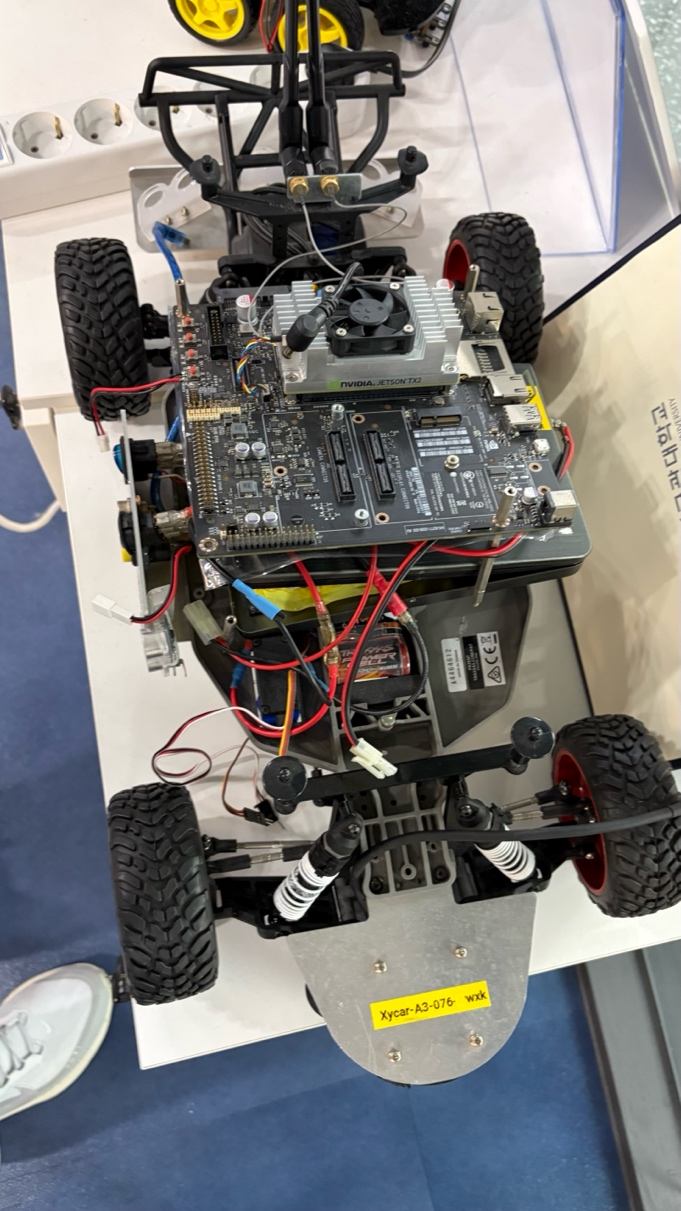
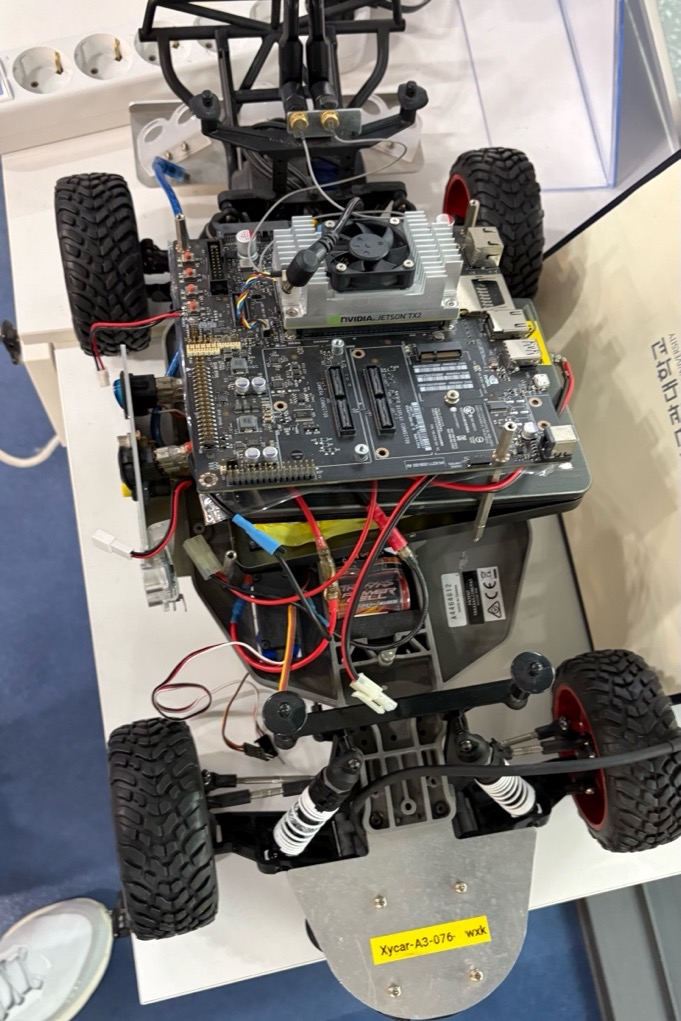
Restore in-post cover, left thumbnail, new GL5 photo, side-by-side chassis
Claude-Session: https://claude.ai/code/session_01424hcxcx26u4QJYkmdN1qv

diff --git a/assets/css/extended/custom.css b/assets/css/extended/custom.css
@@ -1,11 +1,11 @@
 /* Post list cards: thumbnail beside the title instead of above it */
 .post-entry {
     display: grid;
-    grid-template-columns: 1fr auto;
+    grid-template-columns: auto 1fr;
     grid-template-areas:
-        "header cover"
-        "content cover"
-        "footer cover";
+        "cover header"
+        "cover content"
+        "cover footer";
     column-gap: 20px;
     align-items: center;
 }

diff --git a/content/posts/hardware-build/index.md b/content/posts/hardware-build/index.md
@@ -6,7 +6,6 @@ tags: ["hardware", "roboracer", "lidar"]
 cover:
   image: cover.jpg
   alt: "SKKUDERIA_SKKAI 차량"
-  hiddenInSingle: true
 ---
 
 안녕하세요, 저희는 이번 IFAC Roboracer 2026에 처음 출전했던 성균관대학교 인공지능학회 SKKAI 모빌리티팀 소속 SKKUDERIA_SKKAI 팀 입니다.
@@ -73,13 +72,18 @@ SOSLAB은 GL5 외에도 많은 2D, 3D라이다를 양산하고 있습니다. 국
 
 저희는 순정 섀시에 LCG 키트를 구해서 장착했습니다. 지상고와 무게중심을 낮추기 위함이었는데, 이또한 추천드리지 않습니다. 저희보다 차체가 낮은 팀이 없었습니다. 또한 후술할 휠 크기와도 연관되어있습니다.
 
-아무튼 저희는 이랬던 유물 섀시를
+아무튼 저희는 이랬던 유물 섀시를, 3d프린터로 덱을 뽑아 이렇게 바꾸어 주었습니다.
 
-<img src="chassis-before.jpeg" alt="개조 전 섀시" style="max-height:460px;width:auto;max-width:100%;display:block;margin:0 auto;">
-
-3d프린터로 덱을 뽑아 이렇게 바꾸어 주었습니다.
-
-<img src="chassis-after.jpeg" alt="개조 후 섀시" style="max-height:460px;width:auto;max-width:100%;display:block;margin:0 auto;">
+<div style="display:flex;gap:12px;justify-content:center;margin:16px 0;">
+  <figure style="flex:1;max-width:320px;margin:0;">
+    <img src="chassis-before.jpeg" alt="개조 전 섀시" style="width:100%;height:auto;border-radius:6px;">
+    <figcaption style="text-align:center;font-size:14px;opacity:.75;">개조 전</figcaption>
+  </figure>
+  <figure style="flex:1;max-width:320px;margin:0;">
+    <img src="chassis-after.jpeg" alt="개조 후 섀시" style="width:100%;height:auto;border-radius:6px;">
+    <figcaption style="text-align:center;font-size:14px;opacity:.75;">개조 후</figcaption>
+  </figure>
+</div>
 
 
 
